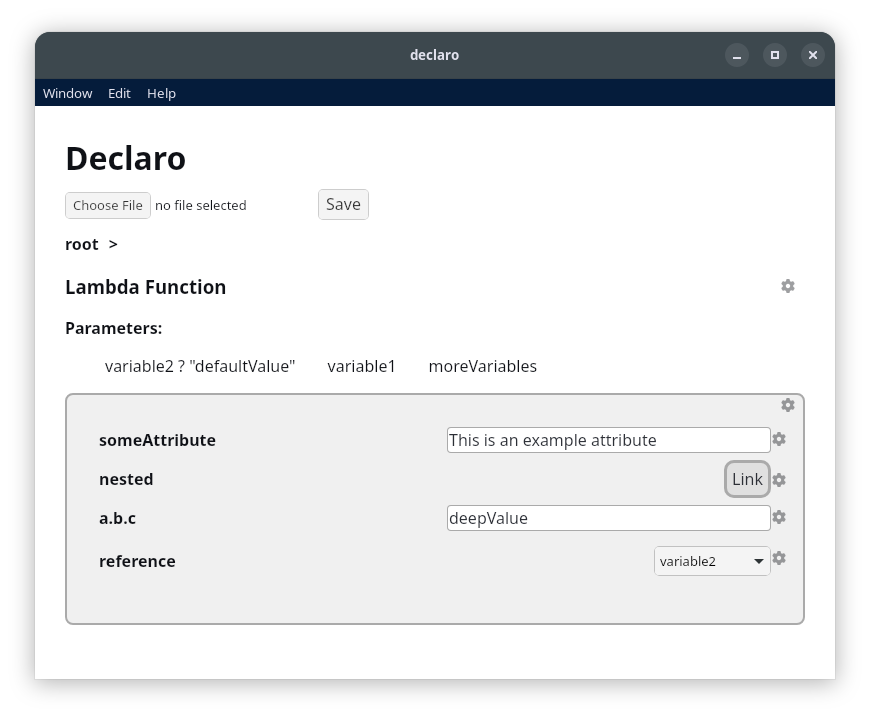
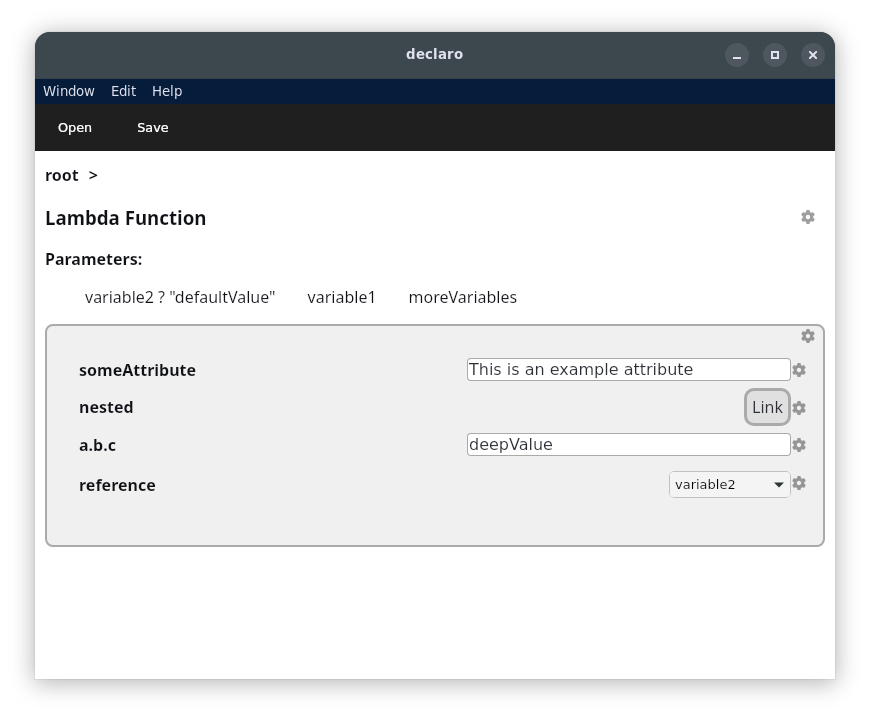
improve file menu

diff --git a/assets/main.css b/assets/main.css
@@ -2,8 +2,8 @@
 body {
   background-color: #ffffff;
   color: #0f1116;
+  margin: 0;
   font-family: "Segoe UI", Tahoma, Geneva, Verdana, sans-serif;
-  margin: 20px;
   font-size: 16px;
 }
 
@@ -11,6 +11,28 @@ h1 {
   font-size: 2em;
   margin-bottom: 10px;
   margin-top: 0px;
+}
+
+.menu {
+  display: flex;
+  gap: 15px;
+  margin-bottom: 10px;
+  background-color: #1f1f1f;
+  padding: 8px;
+}
+
+.menu button {
+  padding: 8px 15px;
+  font-size: 0.8em;
+  border: none;
+  border-radius: 4px;
+  background-color: #1f1f1f;
+  color: #fff;
+  cursor: pointer;
+}
+
+.menu button:hover {
+  background-color: #333;
 }
 
 h4 {
@@ -23,6 +45,7 @@ h4 {
   max-width: 50em;
   margin: 0 auto;
   padding: 10px;
+  padding-top: 0;
 }
 
 nav {
@@ -78,13 +101,6 @@ nav a:after {
 .lambda-parameters {
   list-style-type: none;
   margin-top: 0.5em;
-}
-
-#open-file {
-  font-size: 1em;
-}
-#save-file {
-  font-size: 1em;
 }
 
 .expand-button {

diff --git a/src/main.rs b/src/main.rs
@@ -2,6 +2,8 @@ use dioxus::prelude::*;
 use syntax::{match_ast};
 use syntax::ast::AstNode;
 use std::fs;
+use std::path::PathBuf;
+use rfd::AsyncFileDialog;
 
 mod ast;
 mod components;
@@ -19,9 +21,11 @@ fn main() {
 
 #[component]
 fn App() -> Element {
-    let mut file_path = use_signal(|| {"./example.nix".to_owned()});
-    let contents = fs::read_to_string(file_path.read().clone()).expect("Could not read file");
-    let mut ast = use_signal(|| {syntax::parse_file(&contents).syntax_node()});
+    let mut file_path = use_signal(|| {PathBuf::from("./example.nix")});
+    let mut ast = hooks::use_derivation(move || {
+        let contents = fs::read_to_string(file_path.read().clone()).expect("Could not read file");
+        syntax::parse_file(&contents).syntax_node()
+    });
     let analysis_host = hooks::use_derivation(move || {
         let root = ast.read();
         println!("AST: {}", root);
@@ -43,23 +47,18 @@ fn App() -> Element {
         document::Link { rel: "icon", href: FAVICON }
         document::Link { rel: "stylesheet", href: MAIN_CSS } 
         div {
-            class: "app-container",
-            h1 { "Declaro" }
-            input {
-                type: "file",
+            class: "menu",
+            button {
                 id: "open-file",
-                multiple: "false",
                 id: "open-file",
-                accept: ".nix",
-                onchange: move |e| {
-                    if let Some(file) = e.files() {
-                        let files = file.files();
-                        if let Some(path) = files.iter().next() {
-                            file_path.set(path.clone());
-                            let new_contents = fs::read_to_string(&path.clone()).expect("Could not read file");
-                            ast.set(syntax::parse_file(&new_contents).syntax_node());
-                        }
-                    }
+                onclick: move |_| async move {
+                    let file = AsyncFileDialog::new()
+                        .add_filter("Nix files", &["nix"])
+                        .pick_file()
+                        .await.unwrap();
+                    let path = file.clone().path().to_path_buf();
+
+                    file_path.set(path.clone());
                 },
                 "Open"
             }
@@ -80,6 +79,9 @@ fn App() -> Element {
                 id: "save-file",
                 "Save"
             }
+        }
+        div {
+            class: "app-container",
             Router::<router::Route> {}
         }
     }
